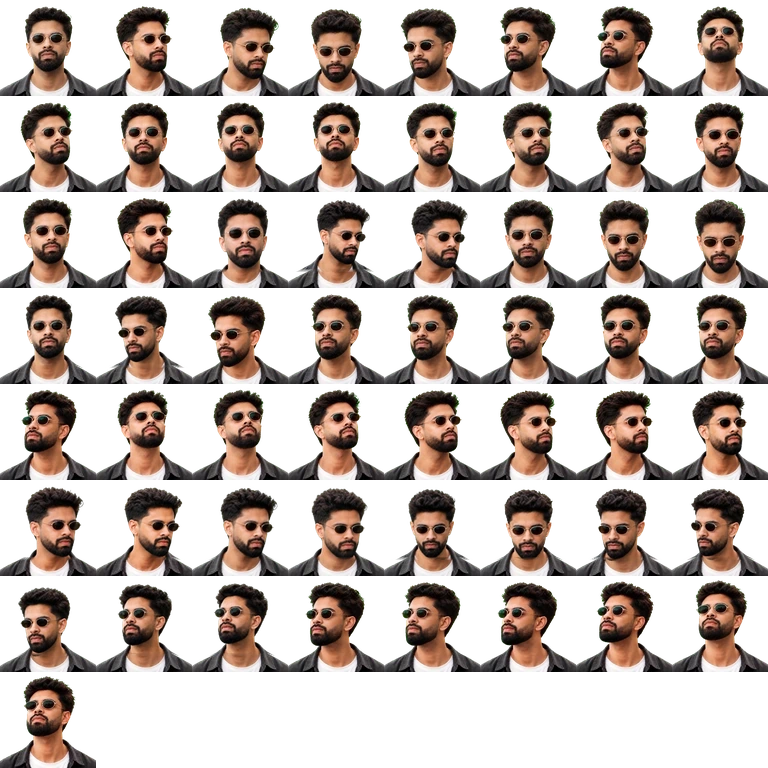
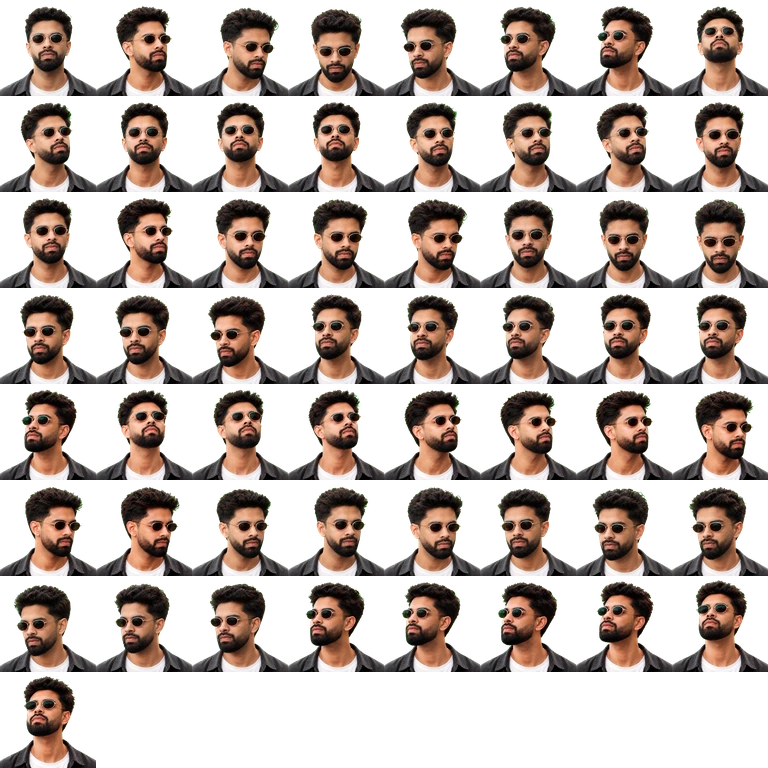
fix: withdraw inconsistent portrait frames

diff --git a/scripts/build-portrait-atlas.ts b/scripts/build-portrait-atlas.ts
@@ -9,7 +9,7 @@ import { z } from "zod";
 import { FACE_MOTION_ATLAS_FRAME_ORDER } from "../src/lib/face-motion";
 
 const root = path.resolve(import.meta.dirname, "..");
-const source = path.join(root, "output/imagegen/face-motion-v8");
+const source = path.join(root, "output/imagegen/face-motion-v7");
 const output = path.resolve(
   process.argv[2] ?? path.join(root, "public/portraits")
 );
@@ -34,8 +34,8 @@ const cells = await Promise.all(
   frames.map(async ({ code }) => {
     const image = sharp(path.join(source, "preview", `${code}.webp`));
     const { width, height } = await image.metadata();
-    assert.equal(width, height);
-    assert.ok(width !== undefined && width >= cellSize);
+    assert.equal(width, 656);
+    assert.equal(height, 656);
     return await image
       .resize(cellSize, cellSize, { kernel: "lanczos3" })
       .png()

diff --git a/src/lib/face-motion.ts b/src/lib/face-motion.ts
@@ -8,7 +8,7 @@ export const FACE_MOTION_CONFIG = {
 } as const;
 
 export const FACE_MOTION_POSTER_SRC = "/portraits/neutral.webp?v=7";
-export const FACE_MOTION_ATLAS_SRC = "/portraits/atlas.webp?v=8";
+export const FACE_MOTION_ATLAS_SRC = "/portraits/atlas.webp?v=7";
 
 export const FACE_MOTION_RING = Object.freeze([
   "right",
